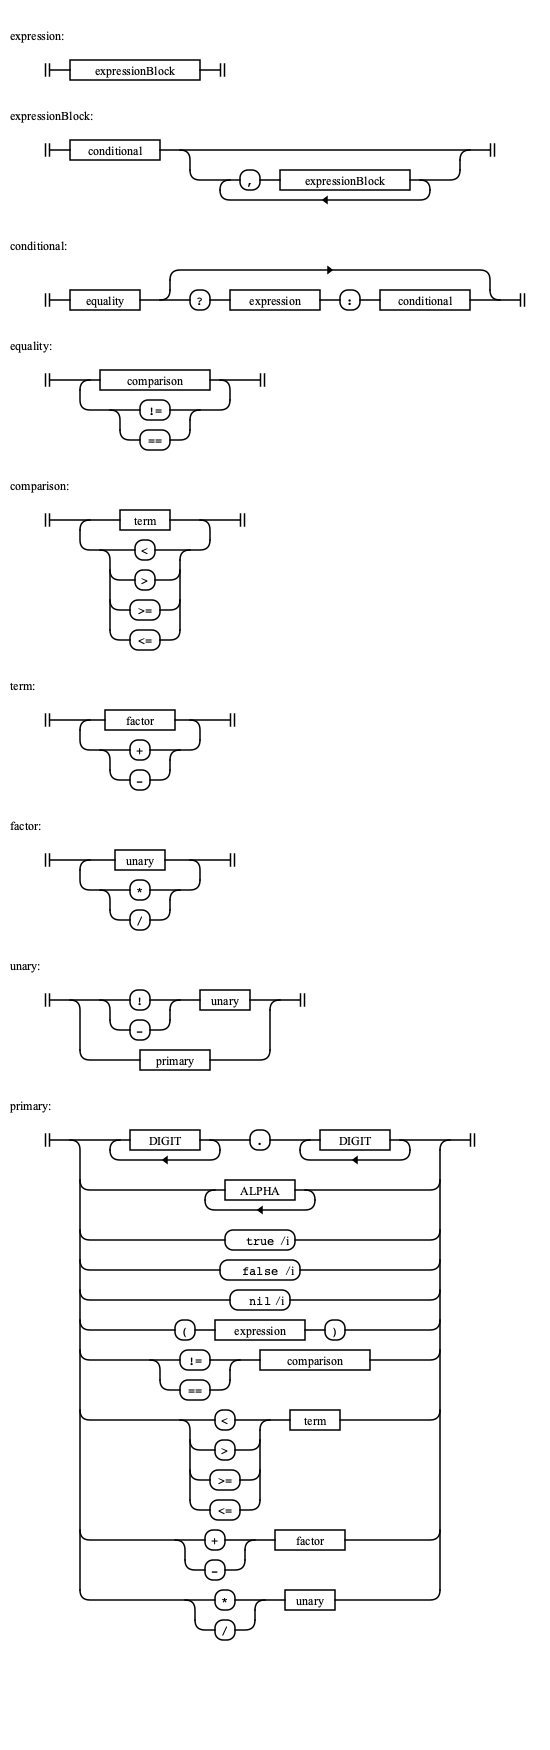
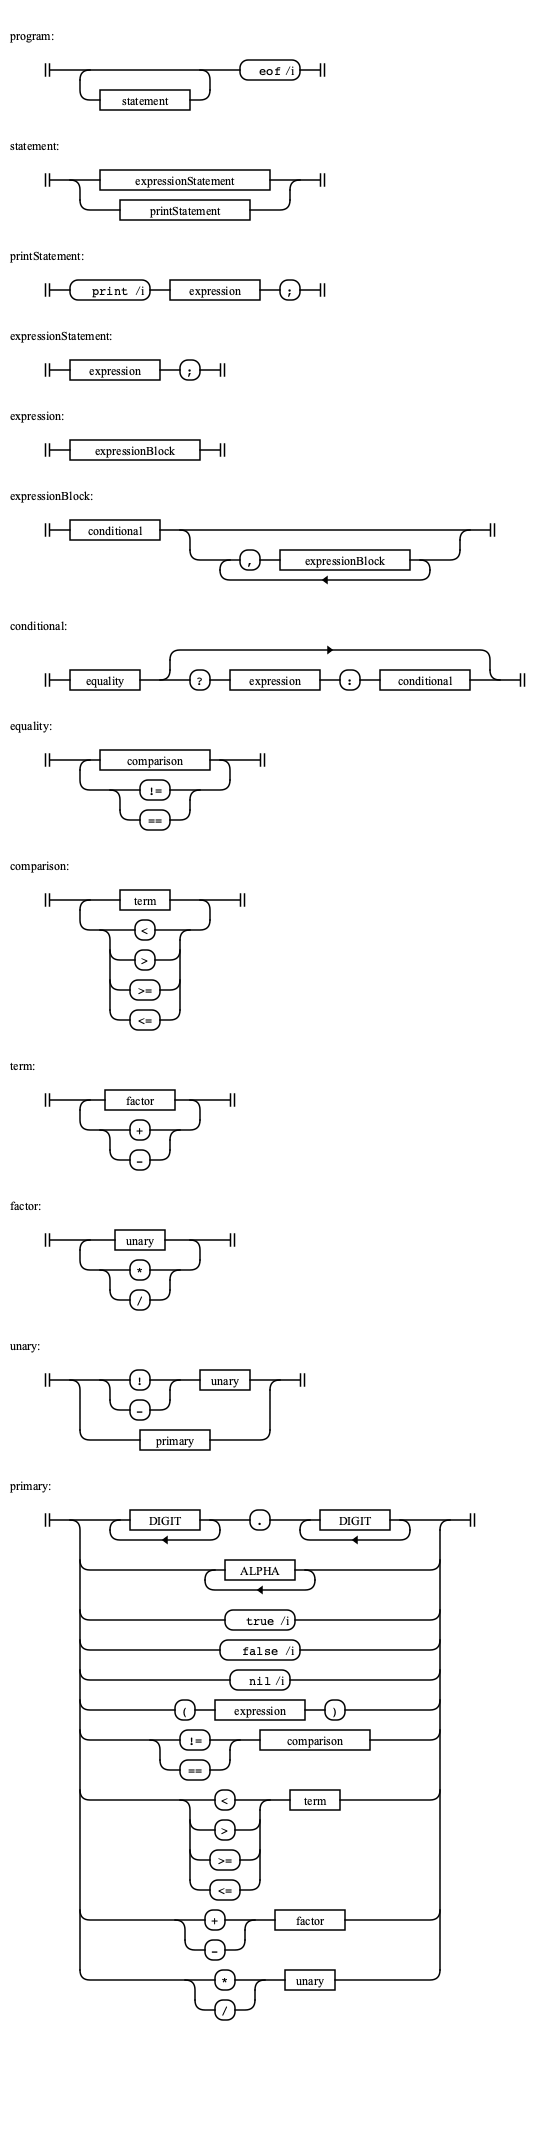
[grammar] Starting to add support for statements.
First, we update the grammar that we would like to support.

We introduce a `program` production that is simply a list of
statements. For the time being a `statement` produces expressions
or printing the result of an expression.

diff --git a/README.md b/README.md
@@ -45,7 +45,8 @@ A graphical representation.
 
 #### Operator Associativity
 
-To avoid ambiguity during parsing of expressions, we define the associativity of some binary operators.
+To avoid ambiguity during parsing of expressions, we define the associativity of the different
+operators in the language.
 As well, the table lists the operators in order of precedence, from lower to higher.
 
 | **Operator family** | **Operators** | **Associates** |
